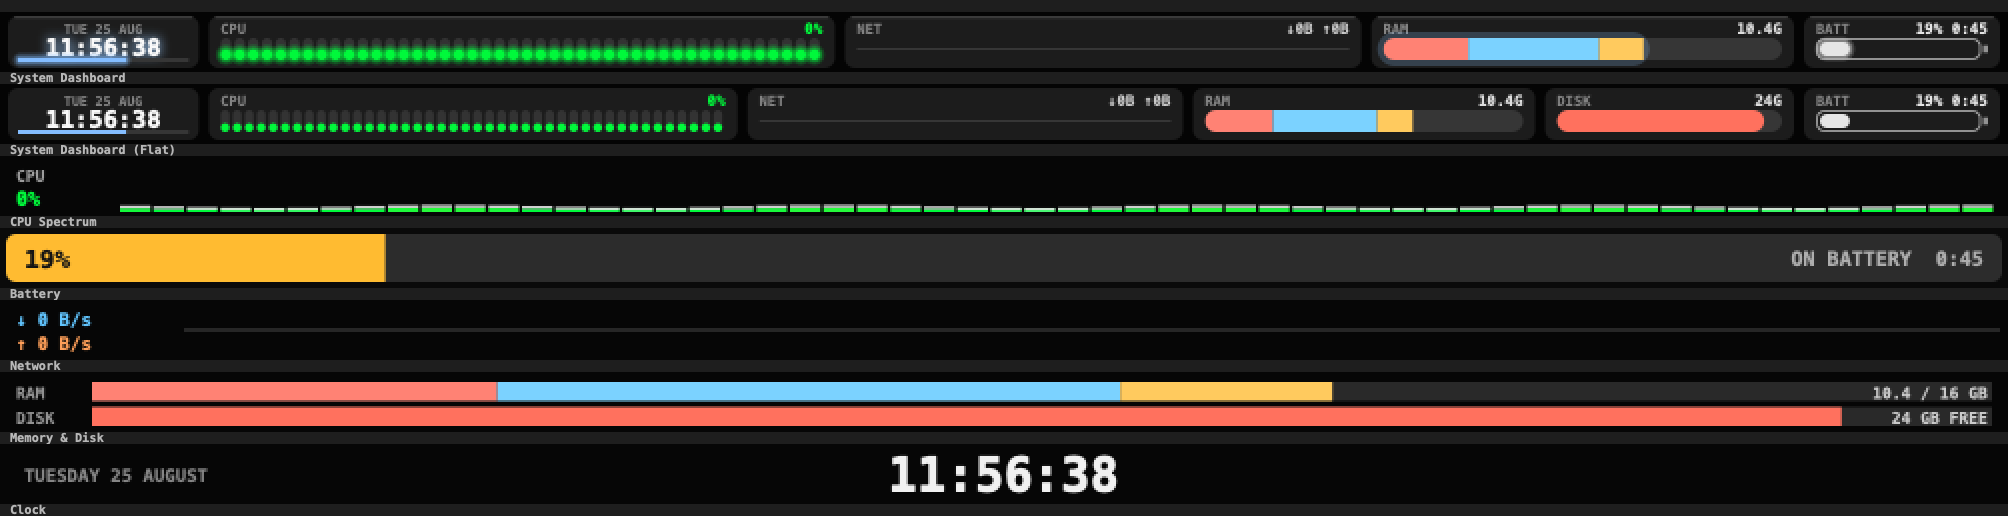
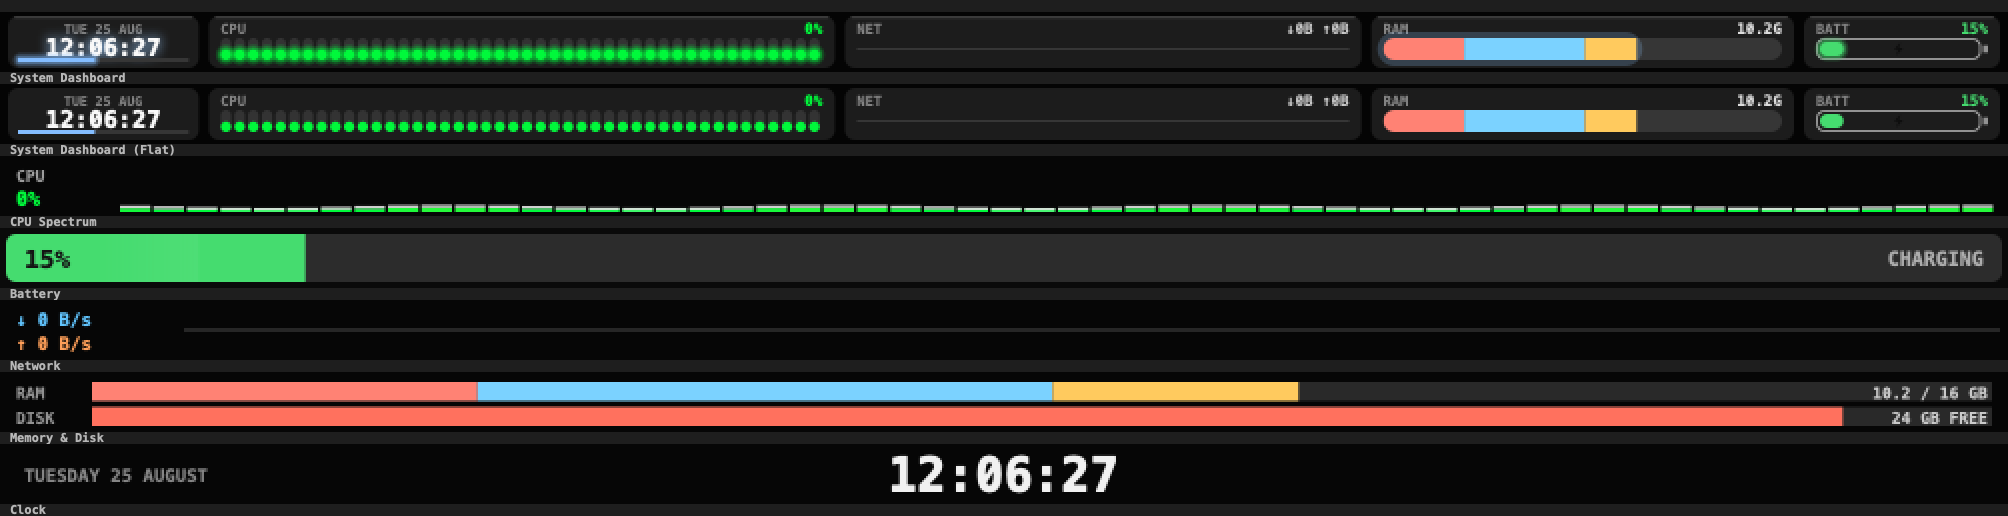
Drop the disk panel from the flat dashboard too
Both styles now show the same five panels, so Style only decides whether
shapes bloom. Disk stays in the Memory & Disk scene.

diff --git a/Sources/Toys/DashboardToy.swift b/Sources/Toys/DashboardToy.swift
@@ -1,15 +1,14 @@
 import CoreGraphics
 import Foundation
 
-/// Every System scene at once: clock, CPU, memory, disk, network and battery,
-/// each in its own panel across the bar.
+/// Clock, CPU, network, memory and battery, each in its own panel across the
+/// bar. Disk lives in its own scene rather than here.
 final class DashboardToy: Toy {
     /// Two presentations of the same panels, registered as separate scenes so
     /// they can be switched between.
+    /// Same panels either way; the style only decides how they are drawn.
     enum Style {
-        /// Five panels, bloomed. No disk.
         case glow
-        /// The earlier flat look, disk panel included.
         case flat
     }
 
@@ -66,8 +65,7 @@ final class DashboardToy: Toy {
         // crowd everything else on the narrower, button-mode canvas
         let clockW = min(96, max(64, size.width * 0.095))
         let battW = min(98, max(68, size.width * 0.098))
-        let gaps: CGFloat = style == .flat ? 5 : 4
-        let flexible = size.width - pad * 2 - gap * gaps - clockW - battW
+        let flexible = size.width - pad * 2 - gap * 4 - clockW - battW
         guard flexible > 80 else { return }
 
         var x = pad
@@ -77,23 +75,17 @@ final class DashboardToy: Toy {
             return r
         }
 
-        var panels: [CGRect] = [advance(clockW)]
-        if style == .flat {
-            panels += [advance(flexible * 0.34), advance(flexible * 0.28),
-                       advance(flexible * 0.22), advance(flexible * 0.16)]
-        } else {
-            panels += [advance(flexible * 0.40), advance(flexible * 0.33),
-                       advance(flexible * 0.27)]
-        }
-        panels.append(advance(battW))
+        let panels = [
+            advance(clockW), advance(flexible * 0.40), advance(flexible * 0.33),
+            advance(flexible * 0.27), advance(battW),
+        ]
         for r in panels { card(ctx, r) }
 
         clock(ctx, panels[0])
         cpu(ctx, panels[1])
         network(ctx, panels[2])
         memory(ctx, panels[3])
-        if style == .flat { disk(ctx, panels[4]) }
-        battery(ctx, panels[panels.count - 1])
+        battery(ctx, panels[4])
     }
 
     // MARK: - Panel furniture
@@ -307,19 +299,6 @@ final class DashboardToy: Toy {
             x += w
         }
         ctx.restoreGState()
-    }
-
-    private func disk(_ ctx: CGContext, _ r: CGRect) {
-        let freeGB = (stats.diskTotal - stats.diskUsed) / 1_000_000_000
-        let frac = stats.diskTotal > 0 ? stats.diskUsed / stats.diskTotal : 0
-        let area = header(ctx, r, "DISK", String(format: "%.0fG", freeGB),
-                          CGColor(gray: 0.84, alpha: 1))
-        capsule(ctx, area, CGColor(gray: 0.16, alpha: 1))
-        lit(ctx, CGRect(x: area.minX, y: area.minY,
-                        width: max(area.height, area.width * CGFloat(frac)),
-                        height: area.height),
-            frac > 0.9 ? CGColor(red: 1.0, green: 0.35, blue: 0.3, alpha: 1)
-                       : CGColor(red: 0.55, green: 0.85, blue: 0.55, alpha: 1))
     }
 
     private func battery(_ ctx: CGContext, _ r: CGRect) {

diff --git a/README.md b/README.md
@@ -102,11 +102,11 @@ The app opens on System Dashboard each time. Its panels lay themselves out from
 the bar width, dropping a label or shrinking the clock rather than letting text
 collide, so it survives both the full-width and button-mode canvases.
 
-There are two of it. `System Dashboard` blooms and drops the disk panel;
-`System Dashboard (Flat)` is the earlier flat look and keeps disk. Both are the
-same `DashboardToy` class registered twice with a different `Style`, so the
-layout and sampling stay in one place. The flat one is cheaper, 7.6% of a core
-against 10.9%.
+There are two of it, showing the same five panels. `System Dashboard` blooms,
+`System Dashboard (Flat)` doesn't. Both are the same `DashboardToy` registered
+twice with a different `Style`, so the layout and sampling stay in one place and
+the style only decides how shapes are drawn. The flat one is cheaper, 7.4% of a
+core against about 11%. Disk has its own scene rather than a dashboard panel.
 
 Its glow is drawn by stacking each shape a few times, larger and fainter each
 time, rather than with a CoreGraphics shadow. A shadowed transparency layer per
@@ -132,8 +132,8 @@ Pendulum Wave†, Tunnels†, LED Marquee†
 **Ambient.** Plasma†, Metaballs†, Aquarium†, Snowfall†, Aurora†, Mandelbrot†
 
 **System.** System Dashboard (clock, CPU, network, RAM and battery at a glance,
-and what the app opens on), System Dashboard (Flat) (the same panels drawn flat,
-with a disk panel too), CPU Spectrum, Battery, Network, Memory & Disk, Clock†
+and what the app opens on), System Dashboard (Flat) (the same panels, drawn
+flat), CPU Spectrum, Battery, Network, Memory & Disk, Clock†
 
 **Silly.** Hacker Terminal†, Almost Done†, Dominoes†
 
